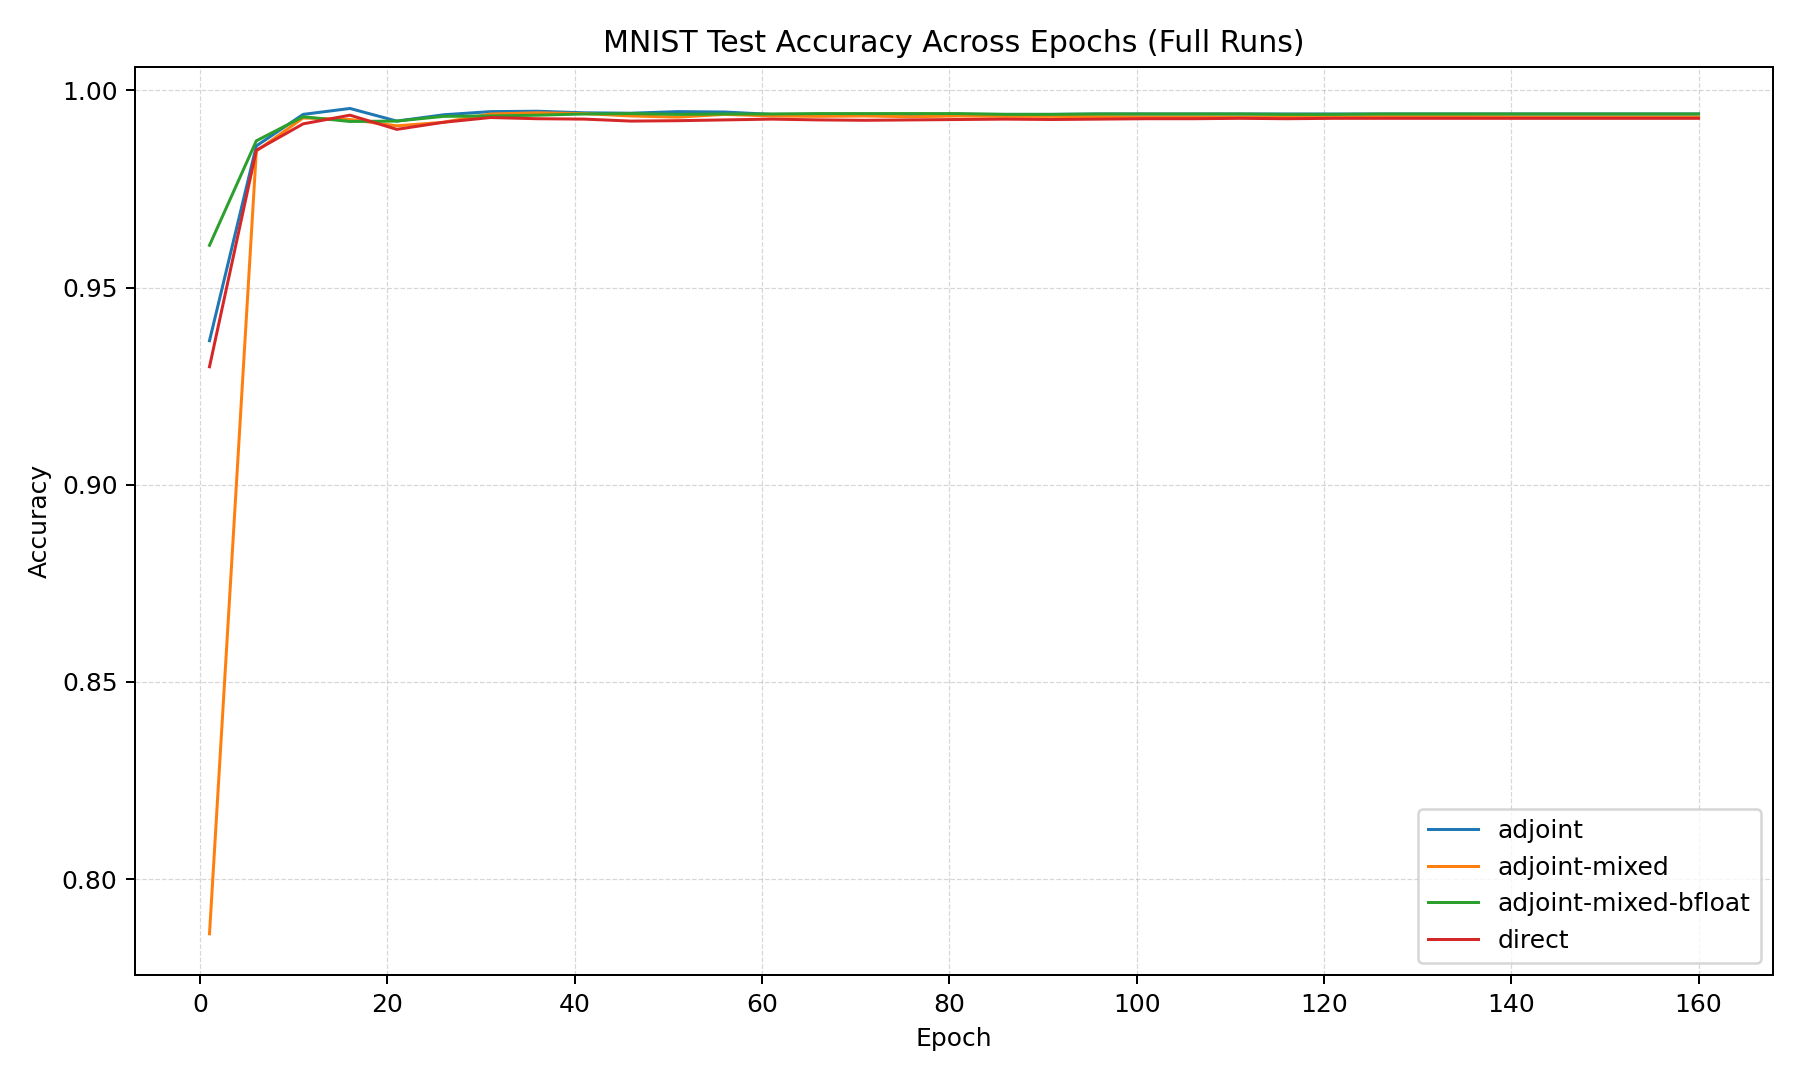
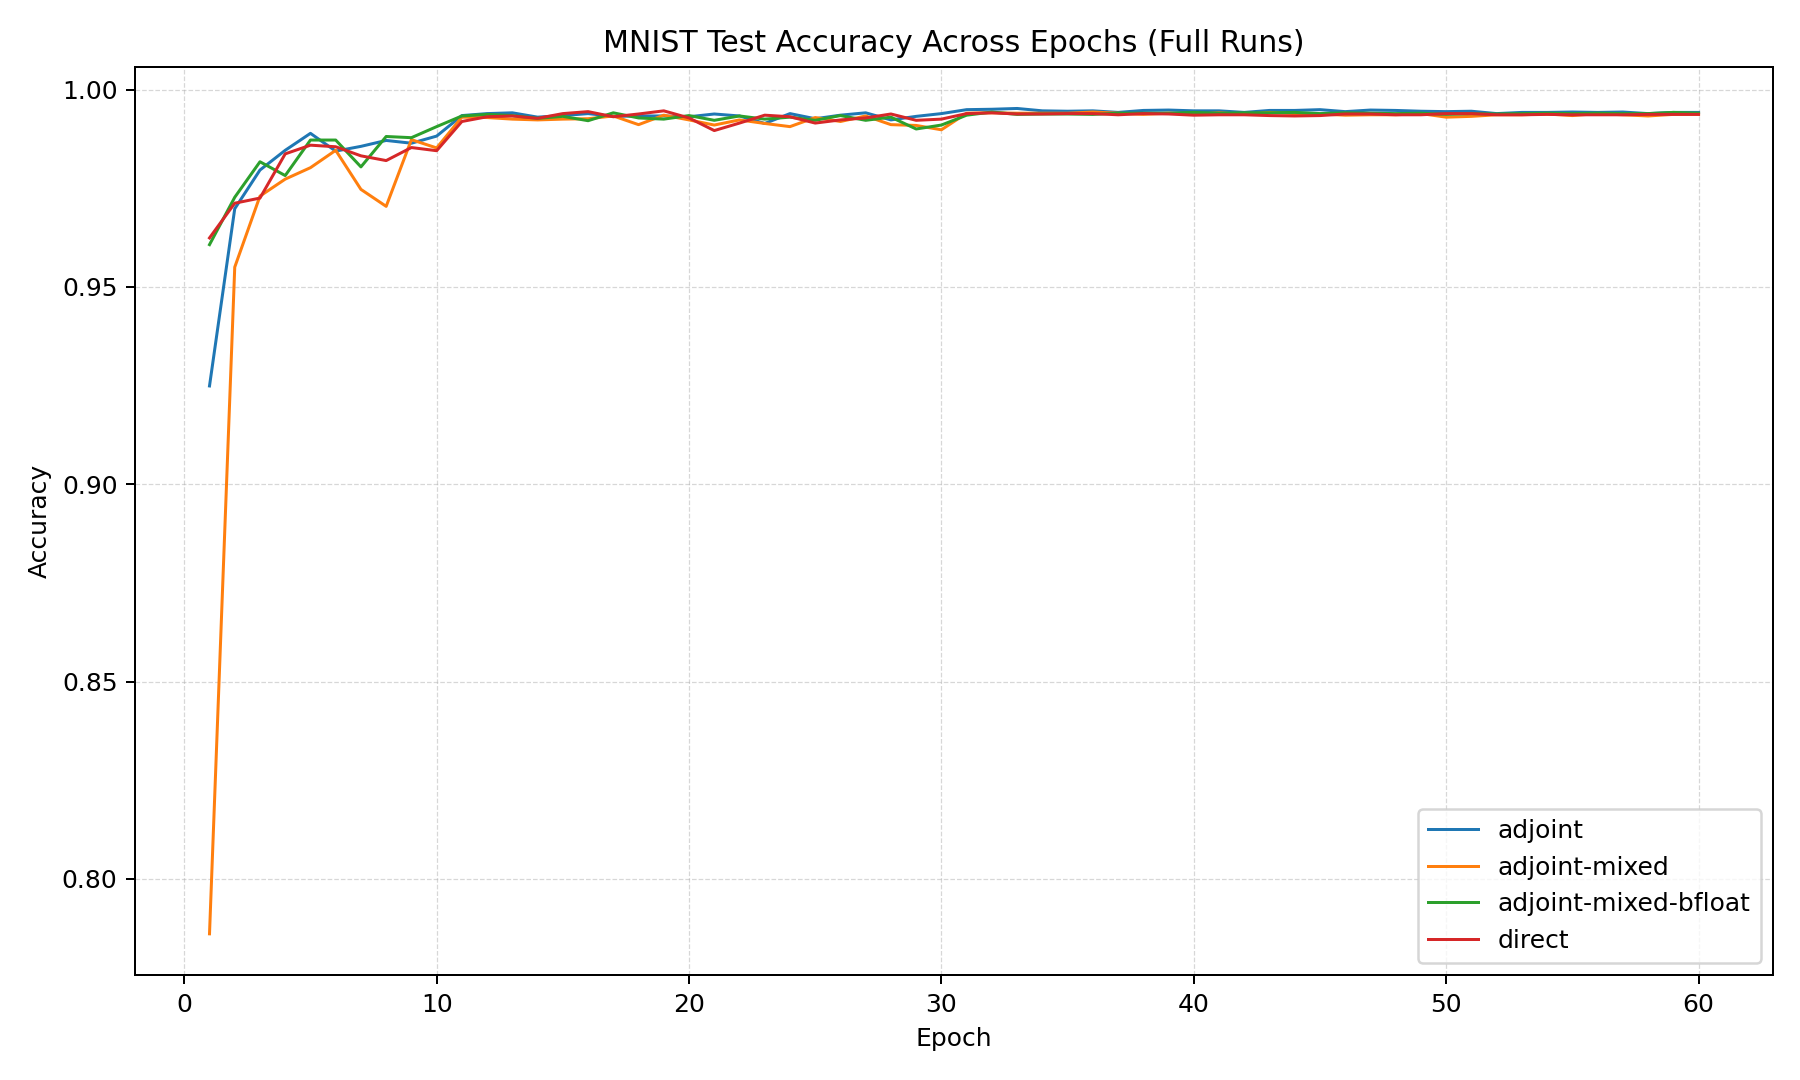
Updated MNIST training summaries

diff --git a/examples/MNIST/Evaluate Full Training Logs/mnist_final_metrics.md b/examples/MNIST/Evaluate Full Training Logs/mnist_final_metrics.md
@@ -5,13 +5,13 @@
 ```text
 mode                 | final_train_acc | final_val_err | best_val_err | train_mem_mb | train_time_s | infer_time_s | infer_mem_mb
 ---------------------+-----------------+---------------+--------------+--------------+--------------+--------------+-------------
-adjoint              | 0.9999          | 0.0060        | 0.0046       | 804.87       | 23706.09     | 5.3900       | 6694.79     
-adjoint-mixed        | 0.9999          | 0.0068        | 0.0057       | 373.70       | 52243.52     | 13.370       | 548.54      
-adjoint-mixed-bfloat | 0.9998          | 0.0060        | 0.0057       | 373.70       | 49214.27     | 13.280       | 548.54      
-direct               | 0.9998          | 0.0071        | 0.0063       | 1955.68      | 71926.16     | 26.230       | 3608.08     
+adjoint              | 0.9999          | 0.0058        | 0.0048       | 804.87       | 10576.97     | 5.33         | 750.06   
+adjoint-mixed        | 0.9998          | 0.0063        | 0.0057       | 373.70       | 19381.30     | 12.87        | 300.65 
+adjoint-mixed-bfloat | 0.9998          | 0.0060        | 0.0057       | 373.70       | 20987.90     | 13.53        | 300.65      
+direct               | 0.9998          | 0.0063        | 0.0054       | 1955.68      | 27384.28     | 20.83        | 299.19     
 ```
 
-Memory savings: $80.9\\%$ between direct and adjoint MP (adjoint MP uses less)
+Memory savings: $80.9\%$ between direct and adjoint MP (adjoint MP uses less)
 
 Log files:
 - adjoint: adj_full_logs.txt
@@ -31,12 +31,14 @@ Experiment Parameters:
     - $f$ in $D^\beta z = f$: Convolution Module
 
 - Training Arguments:
-    - Epochs: 160 
+    - Epochs: 60 
     - Batch Size: 128
     - Initial LR: 0.1, decay at specified boundary epochs 
     - Momentum: 0.9
     - Weight decay: 5e-4
     - GPU: NVIDIA H200 (Palmetto)
+
+Parameter count: 208,266
 
 Note: 
 - adjoint mode uses adjoint method for gradients but in high precision
